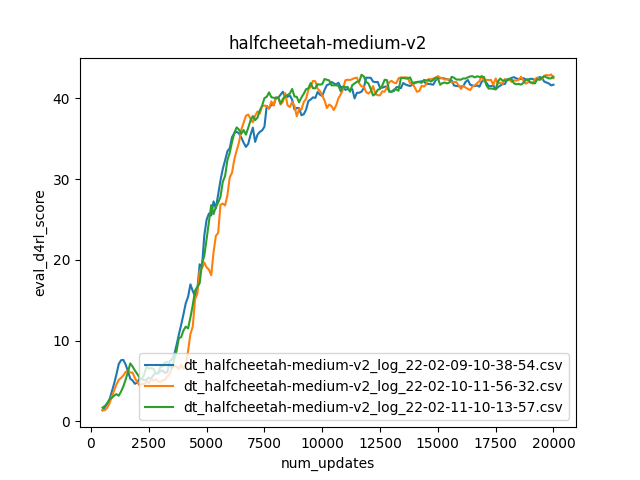
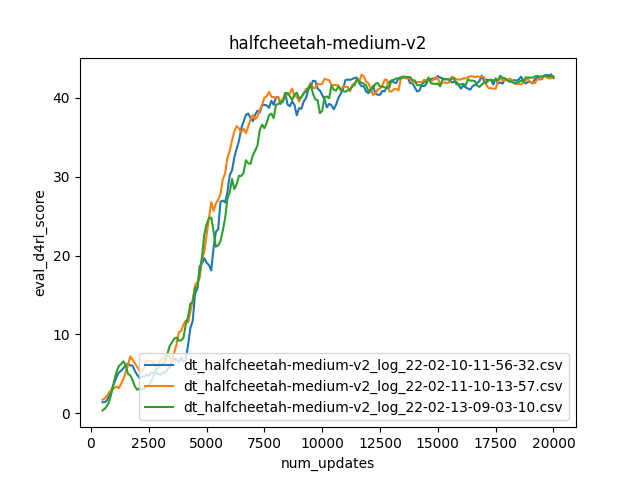
added all env stats

diff --git a/decision_transformer/d4rl_infos.py b/decision_transformer/d4rl_infos.py
@@ -14,91 +14,154 @@ REF_MAX_SCORE = {
 
 
 # calculated from d4rl datasets
+
+## from infos.py from official d4rl github repo
+
+REF_MAX_SCORE = {
+    'halfcheetah' : 12135.0,
+    'walker2d' : 4592.3,
+    'hopper' : 3234.3,
+}
+
+REF_MIN_SCORE = {
+    'halfcheetah' : -280.178953,
+    'walker2d' : 1.629008,
+    'hopper' : -20.272305,
+}
+
+
+## calculated from d4rl datasets
 D4RL_DATASET_STATS = {
         'halfcheetah-medium-v2': {
-                'state_mean':[-0.06845773756504059, 0.016414547339081764, -0.18354906141757965, 
-                              -0.2762460708618164, -0.34061527252197266, -0.09339715540409088, 
-                              -0.21321271359920502, -0.0877423882484436, 5.173007488250732, 
-                              -0.04275195300579071, -0.036108363419771194, 0.14053793251514435, 
-                              0.060498327016830444, 0.09550975263118744, 0.06739100068807602, 
+                'state_mean':[-0.06845773756504059, 0.016414547339081764, -0.18354906141757965,
+                              -0.2762460708618164, -0.34061527252197266, -0.09339715540409088,
+                              -0.21321271359920502, -0.0877423882484436, 5.173007488250732,
+                              -0.04275195300579071, -0.036108363419771194, 0.14053793251514435,
+                              0.060498327016830444, 0.09550975263118744, 0.06739100068807602,
                               0.005627387668937445, 0.013382787816226482
                 ],
-                'state_std':[0.07472999393939972, 0.3023499846458435, 0.30207309126853943, 
-                             0.34417077898979187, 0.17619241774082184, 0.507205605506897, 
-                             0.2567007839679718, 0.3294812738895416, 1.2574149370193481, 
-                             0.7600541710853577, 1.9800915718078613, 6.565362453460693, 
-                             7.466367721557617, 4.472222805023193, 10.566964149475098, 
-                             5.671932697296143, 7.4982590675354  
+                'state_std':[0.07472999393939972, 0.3023499846458435, 0.30207309126853943,
+                             0.34417077898979187, 0.17619241774082184, 0.507205605506897,
+                             0.2567007839679718, 0.3294812738895416, 1.2574149370193481,
+                             0.7600541710853577, 1.9800915718078613, 6.565362453460693,
+                             7.466367721557617, 4.472222805023193, 10.566964149475098,
+                             5.671932697296143, 7.4982590675354
                 ]
             },
         'halfcheetah-medium-replay-v2': {
-                'state_mean':[-0.12880703806877136, 0.3738119602203369, -0.14995987713336945, 
-                              -0.23479078710079193, -0.2841278612613678, -0.13096535205841064, 
-                              -0.20157982409000397, -0.06517726927995682, 3.4768247604370117, 
-                              -0.02785065770149231, -0.015035249292850494, 0.07697279006242752, 
-                              0.01266712136566639, 0.027325302362442017, 0.02316424623131752, 
+                'state_mean':[-0.12880703806877136, 0.3738119602203369, -0.14995987713336945,
+                              -0.23479078710079193, -0.2841278612613678, -0.13096535205841064,
+                              -0.20157982409000397, -0.06517726927995682, 3.4768247604370117,
+                              -0.02785065770149231, -0.015035249292850494, 0.07697279006242752,
+                              0.01266712136566639, 0.027325302362442017, 0.02316424623131752,
                               0.010438721626996994, -0.015839405357837677
                 ],
-                'state_std':[0.17019015550613403, 1.284424901008606, 0.33442774415016174, 
-                             0.3672759234905243, 0.26092398166656494, 0.4784106910228729, 
-                             0.3181420564651489, 0.33552637696266174, 2.0931615829467773, 
-                             0.8037433624267578, 1.9044333696365356, 6.573209762573242, 
-                             7.572863578796387, 5.069749355316162, 9.10555362701416, 
+                'state_std':[0.17019015550613403, 1.284424901008606, 0.33442774415016174,
+                             0.3672759234905243, 0.26092398166656494, 0.4784106910228729,
+                             0.3181420564651489, 0.33552637696266174, 2.0931615829467773,
+                             0.8037433624267578, 1.9044333696365356, 6.573209762573242,
+                             7.572863578796387, 5.069749355316162, 9.10555362701416,
                              6.085654258728027, 7.25300407409668
                 ]
             },
         'halfcheetah-medium-expert-v2': {
-                'state_mean':[-0.05667462572455406, 0.024369969964027405, -0.061670560389757156, 
-                              -0.22351515293121338, -0.2675151228904724, -0.07545716315507889, 
-                              -0.05809682980179787, -0.027675075456500053, 8.110626220703125, 
-                              -0.06136331334710121, -0.17986927926540375, 0.25175222754478455, 
-                              0.24186332523822784, 0.2519369423389435, 0.5879552960395813, 
+                'state_mean':[-0.05667462572455406, 0.024369969964027405, -0.061670560389757156,
+                              -0.22351515293121338, -0.2675151228904724, -0.07545716315507889,
+                              -0.05809682980179787, -0.027675075456500053, 8.110626220703125,
+                              -0.06136331334710121, -0.17986927926540375, 0.25175222754478455,
+                              0.24186332523822784, 0.2519369423389435, 0.5879552960395813,
                               -0.24090635776519775, -0.030184272676706314
                 ],
-                'state_std':[0.06103534251451492, 0.36054104566574097, 0.45544400811195374, 
-                             0.38476887345314026, 0.2218363732099533, 0.5667523741722107, 
-                             0.3196682929992676, 0.2852923572063446, 3.443821907043457, 
-                             0.6728139519691467, 1.8616976737976074, 9.575807571411133, 
-                             10.029894828796387, 5.903450012207031, 12.128185272216797, 
+                'state_std':[0.06103534251451492, 0.36054104566574097, 0.45544400811195374,
+                             0.38476887345314026, 0.2218363732099533, 0.5667523741722107,
+                             0.3196682929992676, 0.2852923572063446, 3.443821907043457,
+                             0.6728139519691467, 1.8616976737976074, 9.575807571411133,
+                             10.029894828796387, 5.903450012207031, 12.128185272216797,
                              6.4811787605285645, 6.378620147705078
                 ]
             },
-        
+        'walker2d-medium-v2': {
+                'state_mean':[1.218966007232666, 0.14163373410701752, -0.03704913705587387,
+                              -0.13814310729503632, 0.5138224363327026, -0.04719110205769539,
+                              -0.47288352251052856, 0.042254164814949036, 2.3948874473571777,
+                              -0.03143199160695076, 0.04466355964541435, -0.023907244205474854,
+                              -0.1013401448726654, 0.09090937674045563, -0.004192637279629707,
+                              -0.12120571732521057, -0.5497063994407654
+                ],
+                'state_std':[0.12311358004808426, 0.3241879940032959, 0.11456084251403809,
+                             0.2623065710067749, 0.5640279054641724, 0.2271878570318222,
+                             0.3837319612503052, 0.7373676896095276, 1.2387926578521729,
+                             0.798020601272583, 1.5664079189300537, 1.8092705011367798,
+                             3.025604248046875, 4.062486171722412, 1.4586567878723145,
+                             3.7445690631866455, 5.5851287841796875
+                ]
+            },
+        'walker2d-medium-replay-v2': {
+                'state_mean':[1.209364652633667, 0.13264022767543793, -0.14371201395988464,
+                              -0.2046516090631485, 0.5577612519264221, -0.03231537342071533,
+                              -0.2784661054611206, 0.19130706787109375, 1.4701707363128662,
+                              -0.12504704296588898, 0.0564953051507473, -0.09991033375263214,
+                              -0.340340256690979, 0.03546293452382088, -0.08934258669614792,
+                              -0.2992438077926636, -0.5984178185462952
+                ],
+                'state_std':[0.11929835379123688, 0.3562574088573456, 0.25852200388908386,
+                             0.42075422406196594, 0.5202291011810303, 0.15685082972049713,
+                             0.36770978569984436, 0.7161387801170349, 1.3763766288757324,
+                             0.8632221817970276, 2.6364643573760986, 3.0134117603302,
+                             3.720684051513672, 4.867283821105957, 2.6681625843048096,
+                             3.845186948776245, 5.4768385887146
+                ]
+            },
+        'walker2d-medium-expert-v2': {
+                'state_mean':[1.2294334173202515, 0.16869689524173737, -0.07089081406593323,
+                              -0.16197483241558075, 0.37101927399635315, -0.012209027074277401,
+                              -0.42461398243904114, 0.18986578285694122, 3.162475109100342,
+                              -0.018092676997184753, 0.03496946766972542, -0.013921679928898811,
+                              -0.05937029421329498, -0.19549426436424255, -0.0019200450042262673,
+                              -0.062483321875333786, -0.27366524934768677
+                ],
+                'state_std':[0.09932824969291687, 0.25981399416923523, 0.15062759816646576,
+                             0.24249176681041718, 0.6758718490600586, 0.1650741547346115,
+                             0.38140663504600525, 0.6962361335754395, 1.3501490354537964,
+                             0.7641991376876831, 1.534574270248413, 2.1785972118377686,
+                             3.276582717895508, 4.766193866729736, 1.1716983318328857,
+                             4.039782524108887, 5.891613960266113
+                ]
+            },
         'hopper-medium-v2': {
-                'state_mean':[1.311279058456421, -0.08469521254301071, -0.5382719039916992, 
-                              -0.07201576232910156, 0.04932365566492081, 2.1066856384277344, 
-                              -0.15017354488372803, 0.008783451281487942, -0.2848185896873474, 
+                'state_mean':[1.311279058456421, -0.08469521254301071, -0.5382719039916992,
+                              -0.07201576232910156, 0.04932365566492081, 2.1066856384277344,
+                              -0.15017354488372803, 0.008783451281487942, -0.2848185896873474,
                               -0.18540096282958984, -0.28461286425590515
                 ],
-                'state_std':[0.17790751159191132, 0.05444620922207832, 0.21297138929367065, 
-                             0.14530418813228607, 0.6124444007873535, 0.8517446517944336, 
-                             1.4515252113342285, 0.6751695871353149, 1.5362390279769897, 
-                             1.616074562072754, 5.607253551483154 
+                'state_std':[0.17790751159191132, 0.05444620922207832, 0.21297138929367065,
+                             0.14530418813228607, 0.6124444007873535, 0.8517446517944336,
+                             1.4515252113342285, 0.6751695871353149, 1.5362390279769897,
+                             1.616074562072754, 5.607253551483154
                 ]
             },
         'hopper-medium-replay-v2': {
-                'state_mean':[-0.12880703806877136, 0.3738119602203369, -0.14995987713336945, 
-                              -0.23479078710079193, -0.2841278612613678, -0.13096535205841064, 
-                              -0.20157982409000397, -0.06517726927995682, 3.4768247604370117, 
-                              
+                'state_mean':[1.2305138111114502, -0.04371410980820656, -0.44542956352233887,
+                              -0.09370097517967224, 0.09094487875699997, 1.3694725036621094,
+                              -0.19992674887180328, -0.022861352190375328, -0.5287045240402222,
+                              -0.14465883374214172, -0.19652697443962097
                 ],
-                'state_std':[0.17019015550613403, 1.284424901008606, 0.33442774415016174, 
-                             0.3672759234905243, 0.26092398166656494, 0.4784106910228729, 
-                             
+                'state_std':[0.1756512075662613, 0.0636928603053093, 0.3438323438167572,
+                             0.19566889107227325, 0.5547984838485718, 1.051029920578003,
+                             1.158307671546936, 0.7963128685951233, 1.4802359342575073,
+                             1.6540331840515137, 5.108601093292236
                 ]
             },
         'hopper-medium-expert-v2': {
-                'state_mean':[1.311279058456421, -0.08469521254301071, -0.5382719039916992, 
-                              -0.07201576232910156, 0.04932365566492081, 2.1066856384277344, 
-                              
+                'state_mean':[1.3293815851211548, -0.09836531430482864, -0.5444297790527344,
+                              -0.10201650857925415, 0.02277466468513012, 2.3577215671539307,
+                              -0.06349576264619827, -0.00374026270583272, -0.1766270101070404,
+                              -0.11862941086292267, -0.12097819894552231
                 ],
-                'state_std':[0.06103534251451492, 0.36054104566574097, 0.45544400811195374, 
-                             0.38476887345314026, 0.2218363732099533, 0.5667523741722107, 
-                             
+                'state_std':[0.17012375593185425, 0.05159067362546921, 0.18141433596611023,
+                             0.16430604457855225, 0.6023368239402771, 0.7737284898757935,
+                             1.4986555576324463, 0.7483318448066711, 1.7953159809112549,
+                             2.0530025959014893, 5.725032806396484
                 ]
             },
-
-        }
-
-
-
+    }

diff --git a/train.py b/train.py
@@ -128,10 +128,11 @@ def train(args):
                 drop_p=dropout_p,
             ).to(device)
 
-    optimizer = torch.optim.AdamW(model.parameters(),
-                                lr=lr,
-    							weight_decay=wt_decay
-                            )
+    optimizer = torch.optim.AdamW(
+                        model.parameters(),
+                        lr=lr,
+                        weight_decay=wt_decay
+                    )
 
     scheduler = torch.optim.lr_scheduler.LambdaLR(
                             optimizer,
@@ -241,7 +242,7 @@ if __name__ == "__main__":
 
     parser = argparse.ArgumentParser()
 
-    parser.add_argument('--env', type=str, default='walker2d')
+    parser.add_argument('--env', type=str, default='halfcheetah')
     parser.add_argument('--dataset', type=str, default='medium')
     parser.add_argument('--rtg_scale', type=int, default=1000)
 

diff --git a/test.py b/test.py
@@ -127,7 +127,7 @@ if __name__ == "__main__":
 
     parser.add_argument('--chk_pt_dir', type=str, default='dt_runs/')
     parser.add_argument('--chk_pt_name', type=str,
-            default='dt_halfcheetah-medium-v2_model_22-02-09-10-38-54.pt')
+            default='dt_halfcheetah-medium-v2_model_22-02-13-09-03-10_best.pt')
 
     parser.add_argument('--context_len', type=int, default=20)
     parser.add_argument('--n_blocks', type=int, default=3)

diff --git a/decision_transformer/utils.py b/decision_transformer/utils.py
@@ -26,7 +26,7 @@ def get_d4rl_dataset_stats(env_d4rl_name):
 
 
 def evaluate_on_env(model, device, context_len, env, rtg_target, rtg_scale,
-                    num_eval_ep=10, max_test_ep_len=2000,
+                    num_eval_ep=10, max_test_ep_len=1000,
                     state_mean=None, state_std=None, render=False):
 
     eval_batch_size = 1  # required for forward pass

diff --git a/data/download_d4rl_datasets.py b/data/download_d4rl_datasets.py
@@ -10,7 +10,7 @@ import d4rl
 def download_d4rl_data():
 	datasets = []
 
-	data_dir = ''
+	data_dir = 'data/'
 
 	print(data_dir)
 

diff --git a/README.md b/README.md
@@ -21,7 +21,7 @@ Install `mujoco-py` library by following instructions on [mujoco-py repo](https:
 
 ### D4RL Data
 
-Datasets are expected to be stored in the `data` directory. Install the [D4RL repo](https://github.com/rail-berkeley/d4rl). Then save formated data in the `data` directory using the following script:
+Datasets are expected to be stored in the `data` directory. Install the [D4RL repo](https://github.com/rail-berkeley/d4rl). Then save formatted data in the `data` directory using the following script:
 ```
 python3 data/download_d4rl_datasets.py
 ```
@@ -40,18 +40,21 @@ python3 data/download_d4rl_datasets.py
 
 ## Results
 
-**Note:** these results are mean and variance of 3 random seeds obtained after 20k updates while the official results are obtained after training for 100k updates. The variance in score should decrease as training reaches saturation.
+**Note:** these results are mean and variance of 3 random seeds obtained after 20k updates while the official results are obtained after 100k updates. The variance in returns and score should decrease as training reaches saturation.
 
 
 | Dataset | Environment | DT (this repo) 20k updates | DT (official) 100k updates|
 | :---: | :---: | :---: | :---: |
 | Medium | HalfCheetah | 42.18 ± 0.77 | 42.6 ± 0.1 |
+| Medium | Hopper | 68.54 ± 5.9 | 67.6 ± 1.0 |
 
 
 | ![](https://github.com/nikhilbarhate99/min-decision-transformer/blob/master/media/halfcheetah-medium-v2.png)  | ![](https://github.com/nikhilbarhate99/min-decision-transformer/blob/master/media/halfcheetah-medium-v2.gif)  |
 | :---:|:---: |
 
 
+| ![](https://github.com/nikhilbarhate99/min-decision-transformer/blob/master/media/hopper-medium-v2.png)  | ![](https://github.com/nikhilbarhate99/min-decision-transformer/blob/master/media/hopper-medium-v2.gif)  |
+| :---:|:---: |
 
 
 ## Citing 
